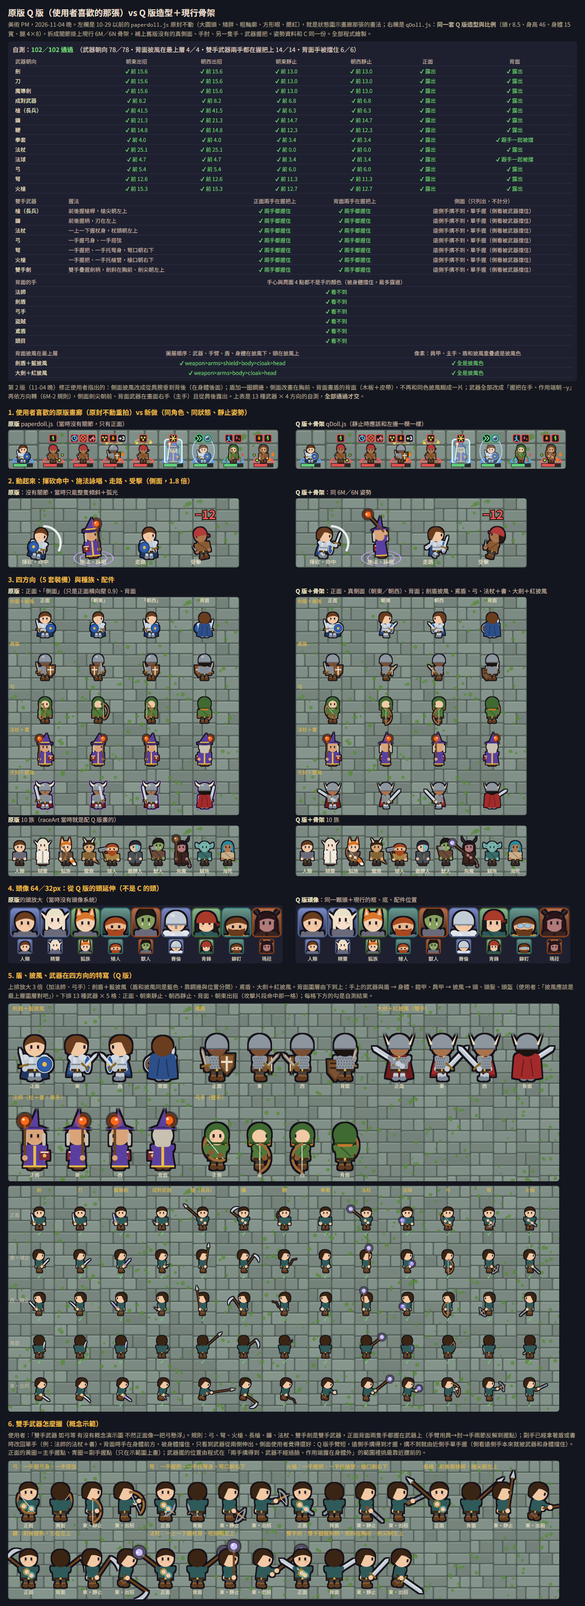
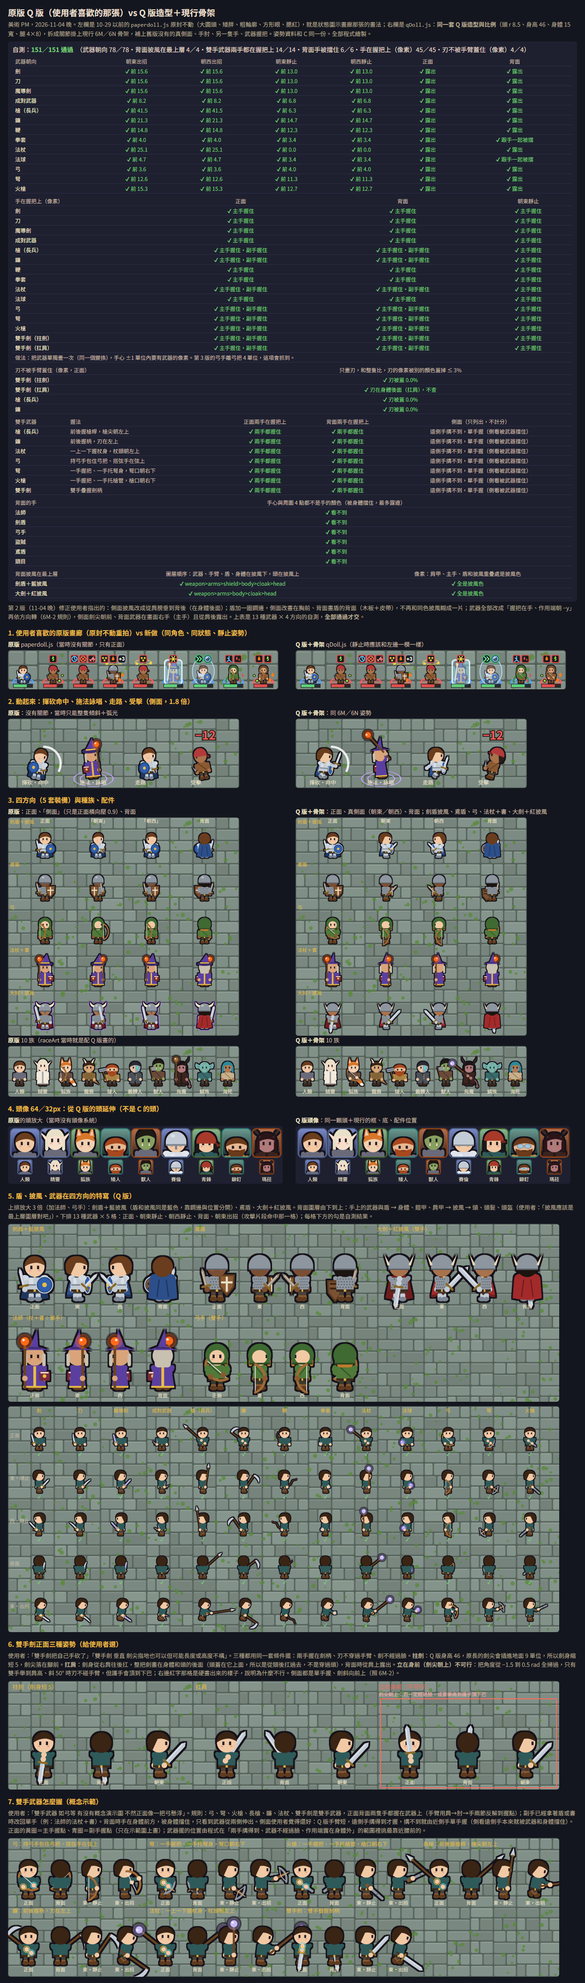
docs(art): weapon idle animations (15 kinds, gif), QK-7 porting spec; Q-doll behind-pose key

diff --git a/docs/art/sample/qDoll.js b/docs/art/sample/qDoll.js
@@ -165,7 +165,7 @@ window.QDoll = (() => {
     fill(ctx, c, () => { ctx.moveTo(-W / 2, -3); ctx.lineTo(-W / 2, -L); ctx.lineTo(0, -L - 3); ctx.lineTo(W / 2, -L); ctx.lineTo(W / 2, -3); ctx.closePath(); });
     if (it?.form === "arcane") {
       const glow = "#9a86ff";
-      ctx.save(); ctx.shadowColor = glow; ctx.shadowBlur = 4; ctx.fillStyle = glow; ctx.fillRect(-0.55, -L + 1, 1.1, L - 5); ctx.restore();
+      ctx.save(); ctx.shadowColor = glow; ctx.shadowBlur = 4 + 8 * pz("glow"); ctx.fillStyle = glow; ctx.fillRect(-0.55, -L + 1, 1.1, L - 5); ctx.restore();
       ctx.fillStyle = "#e8e2ff"; for (const ry of [-6.5, -10, -13.5]) ctx.fillRect(-1.1, ry, 2.2, 0.8);
       fill(ctx, "#b08a4a", () => { for (let i = 0; i < 12; i++) { const a = (i / 12) * TAU, r = i % 2 ? 3.2 : 4.3; ctx.lineTo(Math.cos(a) * r, -3 + Math.sin(a) * r * 0.55); } ctx.closePath(); });
       fill(ctx, glow, () => ctx.arc(0, -3, 1.2, 0, TAU));
@@ -223,8 +223,9 @@ window.QDoll = (() => {
     whip: { len: 18, hold: { side: 0.75, front: -0.25 }, draw: (c, it) => {
       fill(c, "#4a3020", () => c.roundRect(-1.1, -5, 2.2, 6.5, 0.8));
       c.strokeStyle = it?.color ?? "#5e3b1f"; c.lineWidth = 1.4; c.lineCap = "round";
-      c.beginPath(); c.moveTo(0, -5); c.bezierCurveTo(4, -9, -4, -13, 1, -18); c.stroke();
-      c.lineWidth = 0.8; c.beginPath(); c.moveTo(1, -18); c.quadraticCurveTo(3.5, -20, 2.2, -21.5); c.stroke();
+      const w = Math.sin(pz("lash") * TAU) * 2.5; // 待機：鞭梢甩動
+      c.beginPath(); c.moveTo(0, -5); c.bezierCurveTo(4 + w, -9, -4 - w, -13, 1 + w, -18); c.stroke();
+      c.lineWidth = 0.8; c.beginPath(); c.moveTo(1 + w, -18); c.quadraticCurveTo(3.5 + 1.6 * w, -20, 2.2 + 2 * w, -21.5); c.stroke();
     } },
     gauntlet: { len: 4, hold: { side: 1.0, front: 0 }, draw: (c, it) => {
       const [k, d] = wc(it, "steel");
@@ -235,16 +236,18 @@ window.QDoll = (() => {
     staff: { len: 32, hold: { side: 0, front: 0 }, draw: (c, it) => {
       const orb = ({ fire: "#ff6a1a", water: "#4aa8ff", ice: "#8fe3ff", lightning: "#fff36b", poison: "#7ddc3a", wind: "#7fe0c0", earth: "#b0814a", holy: "#ffd75e", shadow: "#9a6ad8" })[it?.element] ?? "#c8bcff"; // 同 paperdoll 的 ELEMENT_TINT
       fill(c, "#6a4420", () => c.rect(-1.1, -30, 2.2, 39)); // 杖身到 +9，下手握在 +6
-      c.save(); c.globalAlpha = 0.35; fill(c, orb, () => c.arc(0, -32, 6.5, 0, TAU)); c.restore();
+      const g = pz("glow"); // 待機的光脈動（idleWeapons.js）：0～1
+      c.save(); c.globalAlpha = 0.35 + 0.35 * g; fill(c, orb, () => c.arc(0, -32, 6.5 + 2 * g, 0, TAU)); c.restore();
       fill(c, orb, () => c.arc(0, -32, 3.6, 0, TAU));
       fill(c, "rgba(255,255,255,0.8)", () => c.arc(-1.2, -33.2, 1.1, 0, TAU));
     } },
     orb: { len: 6, hold: { side: 0.6, front: 0 }, draw: (c, it) => {
       const orb = it?.color ?? "#a898ff";
       // 法球托在掌心：球心 −3.4，球底貼著手
-      c.save(); c.globalAlpha = 0.35; fill(c, orb, () => c.arc(0, -3.4, 6, 0, TAU)); c.restore();
-      fill(c, orb, () => c.arc(0, -3.4, 3.6, 0, TAU));
-      fill(c, "rgba(255,255,255,0.8)", () => c.arc(-1.2, -4.6, 1.1, 0, TAU));
+      const g = pz("glow"), oy = -3.4 + pz("orbY"); // 待機：法球在掌上浮沉（orbY）、光脈動（glow）
+      c.save(); c.globalAlpha = 0.35 + 0.35 * g; fill(c, orb, () => c.arc(0, oy, 6 + 2 * g, 0, TAU)); c.restore();
+      fill(c, orb, () => c.arc(0, oy, 3.6, 0, TAU));
+      fill(c, "rgba(255,255,255,0.8)", () => c.arc(-1.2, oy - 1.2, 1.1, 0, TAU));
     } },
     // 弓：弓把在原點（持弓手包住它），弓臂往 ±x 彎、弓背朝 −y（＝箭的方向），弦在 +y；側面 hold π/2 讓箭朝前；正面 −π/2 弓背朝外
     // 第 3 版前弧心在 (0,9)，弓把其實在 y −4，手離弓身 4 單位（使用者：「弓左邊這隻手沒抓著弓身」）；改成弧心 (0,13)、弓把在原點
@@ -407,12 +410,14 @@ window.QDoll = (() => {
   // ---------- 盾：正面舊版原樣＋一圈鋼邊（和同色披風分得開）／側面（新：近乎側看的窄盾，在胸前）／背面（新：看到盾的背面＝木板＋皮帶） ----------
   const RIM = "#c3ccd6";
   function shieldFront(ctx, it, x) {
+    ctx.save(); ctx.translate(0, -pz("shieldUp")); // 待機：舉盾
     PD.drawWeapon(ctx, it, x, true);
     if (it.kind === "shield_round") { ctx.strokeStyle = RIM; ctx.lineWidth = 0.9; ctx.beginPath(); ctx.arc(x, -13.5, 7.1, 0, TAU); ctx.stroke(); }
+    ctx.restore();
   }
   function shieldSide(ctx, it) {
     const [c, d] = colors(it), tower = it.kind === "shield_kite" && it.form === "tower";
-    ctx.save(); ctx.translate(8.6, -13.5); // 拿在遠側手、舉在胸前：比身體前緣（x 5.4）再往前，近側手臂只蓋到盾的後緣
+    ctx.save(); ctx.translate(8.6, -13.5 - pz("shieldUp")); // 拿在遠側手、舉在胸前：比身體前緣（x 5.4）再往前，近側手臂只蓋到盾的後緣
     if (it.kind === "shield_round") {
       fill(ctx, d, () => ctx.ellipse(0, 0, 2.9, 7.5, 0, 0, TAU));
       fill(ctx, c, () => ctx.ellipse(0.6, 0, 2.1, 6.2, 0, 0, TAU));
@@ -486,8 +491,10 @@ window.QDoll = (() => {
       const a = pz("arm"), eA = Math.min(0, a * 0.35);
       sideW = POSE && typeof POSE.wpn === "number" ? POSE.wpn : holdOf(gear.main_hand, "side");
       let done = false;
+      const h0 = fk(4.5, 0, eA), h = [4.5 + rot(a, [h0[0] - 4.5, h0[1] + 20])[0], -20 + rot(a, [h0[0] - 4.5, h0[1] + 20])[1]];
+      // 姿勢鍵 behind（待機的雙手劍扛肩）：武器畫在身體與頭的後面，近側手臂照常畫在前面
+      if (pz("behind")) { mainWeapon(ctx, gear.main_hand, h, a + eA + sideW, "side"); mark("weapon"); }
       if (two) {
-        const h0 = fk(4.5, 0, eA), h = [4.5 + rot(a, [h0[0] - 4.5, h0[1] + 20])[0], -20 + rot(a, [h0[0] - 4.5, h0[1] + 20])[1]];
         const o = rot(a + eA + sideW, twoOff(two)), t = [h[0] + o[0], h[1] + o[1]], k = ik(3, t, -1);
         if (k.ok) { arm(ctx, unit, 3, k.sA, k.eA, side, rec("off")); if (POSE && POSE.hands) POSE.hands.offTwo = true; done = true; }
       }
@@ -531,7 +538,7 @@ window.QDoll = (() => {
     } else if (S) {
       const a = pz("arm"), rm = rec("main");
       ctx.save(); rotAt(ctx, 4.5, -20, a);
-      arm(ctx, unit, 4.5, 0, Math.min(0, a * 0.35), side, (hand, c) => { mainWeapon(ctx, gear.main_hand, hand, sideW, "side"); if (rm) rm(hand, c); });
+      arm(ctx, unit, 4.5, 0, Math.min(0, a * 0.35), side, (hand, c) => { if (!pz("behind")) mainWeapon(ctx, gear.main_hand, hand, sideW, "side"); if (rm) rm(hand, c); });
       ctx.restore();
     }
     ctx.restore();

diff --git a/docs/art/sample/idleWeapons.js b/docs/art/sample/idleWeapons.js
@@ -1,0 +1,45 @@
+// 武器專屬待機（美術 PM，2026-11-04 晚；使用者：「要有待機動化 就是沒輪到他它會在那邊晃 每個武器不一樣動作」）。
+// 每種武器一個循環 pose(u)（u ＝ 0～1），疊在 6M-4 的呼吸上；同一隊的人用單位 id 的 FNV-1a 雜湊錯開相位（同 idleClips 的 breathPhase），
+// 不用 Math.random、不讀時間；同一個 id、同一個時鐘永遠同一格。「減少動態」開啟時一律回到站好（REST）。
+// 姿勢鍵和 6M／6N 同一份，另加 4 個只影響畫法的鍵：shieldUp（盾往上抬幾單位）、glow（杖頭、法球、符文光 0～1）、orbY（法球上下）、lash（鞭梢 0～1）。
+window.IdleWeapons = (() => {
+  const TAU = Math.PI * 2;
+  const S = (u, k = 1) => Math.sin(u * TAU * k);
+  const C = (u, k = 1) => Math.cos(u * TAU * k);
+  const bump = (u, a, b) => (u < a || u > b ? 0 : Math.sin(((u - a) / (b - a)) * Math.PI)); // a～b 之間 0→1→0
+  const ease = (t) => t * t * (3 - 2 * t);
+  const breath = (u) => ({ bob: -0.5 * (0.5 - 0.5 * C(u)) });
+  // ms：循環長度；zh：說明；pose(u)：側面姿勢（正面、背面只用 bob、glow、orbY、shieldUp、pull）
+  const IDLE = {
+    sword: { ms: 2400, zh: "劍：劍尖輕輕晃、重心微移", pose: (u) => ({ ...breath(u), wpn: 0.75 + 0.08 * S(u), arm: 0.05 * S(u), hipN: 0.05 * S(u), hipF: -0.05 * S(u) }) },
+    sword_shield: { ms: 2400, zh: "劍盾：舉盾微晃", pose: (u) => ({ ...breath(u), shieldUp: 1.6 * (0.5 - 0.5 * C(u)), wpn: 0.75 + 0.05 * S(u), lean: -0.03 * (0.5 - 0.5 * C(u)) }) },
+    saber: { ms: 2400, zh: "刀：刀尖畫小圈", pose: (u) => ({ ...breath(u), wpn: 0.75 + 0.16 * S(u), arm: 0.08 * C(u) }) },
+    arcane_blade: { ms: 2400, zh: "魔導劍：劍槽符文光脈動", pose: (u) => ({ ...breath(u), wpn: 0.75 + 0.05 * S(u), glow: 0.5 - 0.5 * C(u) }) },
+    paired: { ms: 2400, zh: "成對武器：匕首在手上翻一圈", pose: (u) => ({ ...breath(u), wpn: 0.75 + TAU * ease(Math.min(1, Math.max(0, (u - 0.3) / 0.3))), arm: -0.2 * bump(u, 0.25, 0.65) }) },
+    spear: { ms: 2400, zh: "長槍：槍尖往前點兩下", pose: (u) => ({ ...breath(u), wpn: 0.15 + 0.14 * (bump(u, 0.15, 0.3) + bump(u, 0.35, 0.5)), arm: -0.06 * (bump(u, 0.15, 0.3) + bump(u, 0.35, 0.5)) }) },
+    scythe: { ms: 2400, zh: "鐮：刃緩慢左右擺", pose: (u) => ({ ...breath(u), wpn: 0.6 + 0.14 * S(u), lean: 0.04 * S(u) }) },
+    whip: { ms: 1200, zh: "鞭：鞭梢甩動", pose: (u) => ({ ...breath(u), lash: u, arm: 0.06 * S(u) }) },
+    gauntlet: { ms: 1200, zh: "拳套：舉拳原地小跳", pose: (u) => { const h = Math.abs(S(u)); return { bob: -2.2 * h, arm: -0.55, wpn: 1.0, kneeN: 0.35 * (1 - h), kneeF: 0.35 * (1 - h), liftL: 0.8 * h, liftR: 0.8 * h }; } },
+    staff: { ms: 2400, zh: "法杖：杖頭光點脈動", pose: (u) => ({ ...breath(u), glow: 0.5 - 0.5 * C(u), wpn: 0.04 * S(u) }) },
+    orb: { ms: 2400, zh: "法球：法球在掌上浮沉、光脈動", pose: (u) => ({ ...breath(u), orbY: -1.4 * (0.5 - 0.5 * C(u)), glow: 0.5 - 0.5 * C(u) }) },
+    bow: { ms: 2400, zh: "弓：拉一下弦再放", pose: (u) => ({ ...breath(u), pull: 3.2 * bump(u, 0.2, 0.7) }) },
+    crossbow: { ms: 2400, zh: "弩：舉起來瞄一下再放下", pose: (u) => { const k = bump(u, 0.2, 0.75); return { ...breath(u), wpn: 2.2 - 0.6 * k, arm: -0.35 * k }; } },
+    gun: { ms: 2400, zh: "火槍：槍口點一下、重心左右換", pose: (u) => ({ ...breath(u), wpn: 2.3 + 0.12 * bump(u, 0.1, 0.3), hipN: 0.08 * S(u), hipF: -0.08 * S(u), lean: 0.03 * S(u) }) },
+    // 扛肩：劍身往後上斜靠在近側肩上，畫在身體和頭的後面（behind）；重心左右換
+    greatsword: { ms: 2400, zh: "雙手劍：扛肩、重心左右換", pose: (u) => ({ ...breath(u), behind: 1, wpn: -0.42 + 0.04 * S(u), arm: -0.45, hipN: 0.1 * S(u), hipF: -0.1 * S(u), lean: 0.03 * S(u) }) },
+  };
+  /** FNV-1a（同 client idleClips.idHash）。 */
+  function idHash(id) { let h = 2166136261; for (let i = 0; i < id.length; i++) h = Math.imul(h ^ id.charCodeAt(i), 16777619); return h >>> 0; }
+  const phaseOf = (id) => (idHash(`${id}:weaponIdle`) % 1000) / 1000;
+  /** 量化成 8 格（同裝備、同朝向、同一格共用貼圖；光、法球浮沉這類疊加層不量化）。 */
+  const FRAMES = 8;
+  function frame(kind, id, ms, opt = {}) {
+    const I = IDLE[kind] ?? IDLE.sword;
+    if (opt.reduce) return { pose: {}, frame: 0 };
+    const u = (ms / I.ms + phaseOf(id)) % 1;
+    const q = opt.quantize === false ? u : Math.floor(u * FRAMES) / FRAMES;
+    const p = I.pose(q), live = I.pose(u);
+    return { pose: { ...p, glow: live.glow, orbY: live.orbY }, frame: Math.floor(u * FRAMES), u };
+  }
+  return { IDLE, frame, phaseOf, idHash, FRAMES };
+})();

diff --git a/docs/art/sample/idle-weapons.html b/docs/art/sample/idle-weapons.html
@@ -1,0 +1,38 @@
+<!doctype html>
+<html lang="zh-Hant"><head><meta charset="utf-8"><title>武器專屬待機</title>
+<style>
+  body{margin:0;padding:14px 18px;background:#14161f;color:#eadfcc;font-family:"Noto Sans TC","Microsoft JhengHei",sans-serif;width:1280px}
+  h1{font-size:19px;margin:0 0 4px}h2{font-size:15px;color:#e8bb48;margin:18px 0 6px}
+  .note{color:#b8ab96;font-size:13px;margin:0 0 8px;line-height:1.55}
+  canvas{display:block;border-radius:6px;background:#1e2030}
+</style></head>
+<body>
+<h1>武器專屬待機（Q 版，側面朝東）</h1>
+<p class="note">美術 PM，2026-11-04 晚。使用者原話：「要有待機動化 就是沒輪到他它會在那邊晃 每個武器不一樣動作」。沒輪到行動的單位在原地輕微晃，每種武器一個循環（1.2 或 2.4 秒），疊在 6M-4 的呼吸上；相位用單位 id 的 FNV-1a 雜湊錯開，同一隊不會同步；「減少動態」開啟時一律站好。動作量化成 8 格（同裝備、同朝向、同一格共用貼圖）；杖頭光、法球浮沉這類疊加層不量化。全部程式繪製（<code>idleWeapons.js</code>＋<code>qDoll.js</code>）。</p>
+<h2>1. 15 種待機（13 種武器＋劍盾＋雙手劍）</h2>
+<canvas id="grid"></canvas>
+<h2>2. 分格：每種 8 格（一個循環）</h2>
+<canvas id="strip"></canvas>
+<h2>3. 同一隊 5 個劍盾兵：相位依 id 錯開，不同步</h2>
+<canvas id="team"></canvas>
+<script src="current.js"></script><script src="raceArt.js"></script><script src="paperdoll.js"></script><script src="fx.js"></script><script src="realms.js"></script>
+<script src="qDoll.js"></script><script src="storyDoll.js"></script><script src="anim.js"></script><script src="idleWeapons.js"></script>
+<script>
+const T=52,Q=QDoll,IW=IdleWeapons,FONT="'Noto Sans TC','Microsoft JhengHei',sans-serif";
+const qs=new URLSearchParams(location.search),FIXED=qs.has("t")?+qs.get("t"):null,REDUCE=qs.has("reduce");
+function cv(id,w,h){const c=document.getElementById(id);c.width=w*2;c.height=h*2;c.style.width=w+"px";c.style.height=h+"px";const x=c.getContext("2d");x.scale(2,2);return x;}
+function floor(x,W,H){for(let gy=0;gy<H;gy++)for(let gx=0;gx<W;gx++)Realms.REALMS[1].floor(x,gx*T,gy*T,gx,gy);}
+const KINDS=["sword","sword_shield","saber","arcane_blade","paired","spear","scythe","whip","gauntlet","staff","orb","bow","crossbow","gun","greatsword"];
+const ZH={sword:"劍",sword_shield:"劍盾",saber:"刀",arcane_blade:"魔導劍",paired:"成對武器",spear:"長槍",scythe:"鐮",whip:"鞭",gauntlet:"拳套",staff:"法杖",orb:"法球",bow:"弓",crossbow:"弩",gun:"火槍",greatsword:"雙手劍"};
+function unitOf(k){if(k==="sword_shield"){const u=Anim.unit("sword");return {look:u.look,gear:{...u.gear,off_hand:PaperDoll.ITEMS.round_shield}};}return Anim.unit(k);}
+function put(x,k,id,cx,fy,K,ms,opt={}){const f=IW.frame(k,id,ms,{reduce:REDUCE,...opt});Q.setPose({...Anim.REST,...f.pose,wpn:f.pose.wpn});Q.stamp(x,unitOf(k),"side",cx,fy,K,false);Q.setPose(null);return f;}
+const G=cv("grid",1240,3*170),S=cv("strip",1240,KINDS.length*58+10),M=cv("team",1240,150);
+function drawGrid(ms){G.clearRect(0,0,1240,520);floor(G,24,10);KINDS.forEach((k,i)=>{const col=i%5,row=Math.floor(i/5),cx=90+col*240,fy=row*170+140;put(G,k,`demo:${k}`,cx,fy,2.4,ms);
+  G.fillStyle="#e8bb48";G.font=`13px ${FONT}`;G.textAlign="left";G.fillText(ZH[k],cx+46,fy-96);G.fillStyle="#c8bca8";G.font=`11px ${FONT}`;const t=IW.IDLE[k].zh.split("：")[1];G.fillText(t,cx+46,fy-78);G.fillText(`${IW.IDLE[k].ms/1000} 秒一循環`,cx+46,fy-62);});
+  if(REDUCE){G.fillStyle="#ff6a5a";G.font=`14px ${FONT}`;G.fillText("減少動態：全部站好",1000,20);}}
+function drawStrip(){floor(S,24,KINDS.length+3);KINDS.forEach((k,i)=>{const y=i*58+52;S.fillStyle="#e8bb48";S.font=`12px ${FONT}`;S.textAlign="left";S.fillText(ZH[k],8,y-22);
+  for(let j=0;j<8;j++){const ms=(j/8)*IW.IDLE[k].ms,f=IW.IDLE[k].pose(j/8);Q.setPose({...Anim.REST,...f});Q.stamp(S,unitOf(k),"side",110+j*140,y,1.15,false);Q.setPose(null);S.fillStyle="#8a8070";S.font=`10px ${FONT}`;S.fillText(`${j+1}`,110+j*140+26,y-4);}});}
+function drawTeam(ms){M.clearRect(0,0,1240,150);floor(M,24,3);for(let i=0;i<5;i++){const id=`battle-7:hero_${i+1}`,f=put(M,"sword_shield",id,120+i*220,128,2,ms);M.fillStyle="#c8bca8";M.font=`11px ${FONT}`;M.textAlign="left";M.fillText(`${id}　相位 ${IW.phaseOf(id).toFixed(2)}`,120+i*220-40,16);}}
+drawStrip();
+if(FIXED!==null){drawGrid(FIXED);drawTeam(FIXED);}else{const t0=performance.now();const loop=(now)=>{drawGrid(now-t0);drawTeam(now-t0);requestAnimationFrame(loop);};requestAnimationFrame(loop);}
+</script></body></html>

diff --git a/docs/art/武器待機移植需求.md b/docs/art/武器待機移植需求.md
@@ -1,0 +1,81 @@
+# 武器專屬待機：移植需求（QK-7，等使用者確認 Q 版方向後交開發 PM）
+
+美術 PM，2026-11-04 晚。使用者原話（專案 PM 轉達）：「要有待機動化 就是沒輪到他它會在那邊晃 每個武器不一樣動作」。
+
+- 樣張：`idle-weapons.gif`（15 種待機，2.4 秒一循環）、`idle-team.gif`（同一隊 5 人不同步）、`idle-weapons.png`（分格）。
+- 樣張程式：`sample/idle-weapons.html`（`?t=毫秒` 固定時間、`?reduce=1` 減少動態），定義在 `sample/idleWeapons.js`，畫法用 `sample/qDoll.js`。
+- 全部程式繪製，只在前端畫面，不碰引擎與重播。
+
+## 1. 規則
+
+- **誰會晃**：戰鬥中沒輪到行動、站著的單位。
+  - 照 6M-4 `idles()` 的條件：倒地、冰凍、正在播別的動畫（`hold`）的人不晃。
+  - 輪到行動的人照現行（選單開著時站好）。
+- **疊加**：疊在 6M-4 的呼吸上。6M-4 的小動作（張望、伸懶腰）照舊，播小動作時武器待機暫停。
+- **相位**：用 `idHash(`${unitId}:weaponIdle`) % 1000 / 1000`，FNV-1a，同 `idleClips.idHash`。
+  - 同一個 id、同一個時鐘，永遠是同一格。
+  - 同一隊會錯開，見 `idle-team.gif`。
+  - 不用 `Math.random`，不讀時間，時鐘照 6M-4 用 ticker 累加的毫秒。
+- **減少動態**：開啟時一律站好，光也不脈動。樣張 `?reduce=1` 驗證過，畫面完全不動。
+- **量化**：
+  - 動作量化成 8 格。同裝備、同朝向、同一格共用貼圖，每人最多 8 × 朝向張。
+  - 杖頭光、法球浮沉、符文光是疊加層，不量化，也不換貼圖。
+
+## 2. 15 種待機
+
+`idleWeapons.js` 的 `IDLE` 表，照搬。
+
+| 武器 | 動作 | 循環 | 用到的姿勢鍵 |
+|---|---|---|---|
+| 劍 | 劍尖輕晃、重心微移 | 2.4 秒 | wpn、arm、hipN/F |
+| 劍盾（副手是盾） | 舉盾微晃 | 2.4 秒 | shieldUp、wpn、lean |
+| 刀 | 刀尖畫小圈 | 2.4 秒 | wpn、arm |
+| 魔導劍 | 劍槽符文光脈動 | 2.4 秒 | glow、wpn |
+| 成對武器 | 匕首在手上翻一圈 | 2.4 秒 | wpn（加 2π）、arm |
+| 長槍 | 槍尖往前點兩下 | 2.4 秒 | wpn、arm |
+| 鐮 | 刃緩慢左右擺 | 2.4 秒 | wpn、lean |
+| 鞭 | 鞭梢甩動 | 1.2 秒 | lash、arm |
+| 拳套 | 舉拳原地小跳 | 1.2 秒 | bob、arm、kneeN/F、liftL/R |
+| 法杖 | 杖頭光點脈動 | 2.4 秒 | glow、wpn |
+| 法球 | 法球在掌上浮沉、光脈動 | 2.4 秒 | orbY、glow |
+| 弓 | 拉一下弦再放 | 2.4 秒 | pull |
+| 弩 | 舉起來瞄一下再放下 | 2.4 秒 | wpn、arm |
+| 火槍 | 槍口點一下、重心左右換 | 2.4 秒 | wpn、hipN/F、lean |
+| 雙手劍 | 扛肩、重心左右換 | 2.4 秒 | behind、wpn、arm、hipN/F |
+
+**新的姿勢鍵**：只影響畫法，`InkPose` 加欄位，6M／6N 的片段不受影響。
+
+| 鍵 | 作用 |
+|---|---|
+| `shieldUp` | 盾往上抬幾單位 |
+| `glow` | 光的強度 0～1：杖頭、法球的光暈加大加亮，魔導劍符文的 shadowBlur 加大 |
+| `orbY` | 法球上下位移 |
+| `lash` | 鞭梢的波動相位 0～1 |
+| `behind` | 側面時武器畫在身體與頭的後面（雙手劍扛肩）；近側手臂照常畫在前面 |
+
+- **哪個方向播**：側面播完整動作。正面、背面只套 `bob`、`glow`、`orbY`、`shieldUp`、`pull`，手臂與武器角度不變，避免和正面的雙手握法打架。
+- **雙手武器的副手**：照 Q 版雙手規則跟著主手走（`qDoll.js` 的 `TWO`）。
+
+## 3. 驗收
+
+- **gif**：15 種在戰場上同時待機，與樣張 `idle-weapons.gif` 並排。要錄靜音的 gif，見品質底線。
+- **單元測試**：
+  - 15 種都有定義。
+  - 同一個 id、同一個時鐘得到同一格。
+  - 兩個不同 id 的相位不同。
+  - 減少動態時姿勢等於站好。
+  - 8 格量化後貼圖鍵最多 8 個。
+  - 每一格都照跑 Q 版的武器自測：手在握把上（像素）、作用端在畫布內。
+- **效能**：12 人同時待機，FPS 和現在一樣（6R-F 的量法）；貼圖數上限照 6M-4 的快取規則。
+- **減少動態**：開啟後站好，截圖和關閉前的站姿逐像素相同。
+
+## 4. 工作量與排段
+
+| 項目 | 段 |
+|---|---|
+| `idleWeapons.ts`（純函式，15 種定義、相位、量化）＋ `InkPose` 新鍵與畫法掛點（盾、光、法球、鞭、behind） | 0.25 |
+| `IdleMotion` 接上：選武器種類、8 格貼圖快取、疊加層光脈動、減少動態、測試、gif | 0.25 |
+| **合計** | **約 0.5 段** |
+
+- 排在 **QK-1 之後**，動作要用 Q 版武器握法與 `TWO` 雙手規則。建議叫 **QK-7**，可以和 QK-3、QK-4 平行。
+- Q 版系列合計：QK-1～5 約 4.75 段，加外觀變化 QK-6 約 1.75 段（若採用），加 QK-7 約 0.5 段，共約 **7 段**。

diff --git a/docs/art/Q版回歸評估.md b/docs/art/Q版回歸評估.md
@@ -44,6 +44,17 @@
   - 自測 102／102：武器朝向 78、背面披風 4、雙手武器兩手都在握把上 14（7 種 × 正背面）、背面手被擋住 6（6 種職業，像素檢查）。
   - 第 6 組「雙手武器怎麼握（概念示範）」：7 種 × 正面、背面、東靜止、東出招，標出主手與副手握點。
   - 移植影響：`inkPose`／`inkDoll` 要加手臂兩節反解（約 40 行）和 `TWO` 握點表。QK-1 從 1.5 段改成約 1.75 段，合計約 4.75 段。
+- **第 4 版（11-04 晚，使用者：「雙手劍把自己手砍了」「弓左邊這隻手沒抓著弓身側邊也沒太準抓著」「雙手劍 垂直 劍尖指地也可以但可能長度或高度不構」）**：
+  - **弓**：弧心原本在 (0,9)，弓把其實在 y −4，手離弓身 4 單位。改成弧心 (0,13)、弓把在原點，持弓手包住弓把，側面也一樣。
+  - **雙手劍正面**：求解器加「刃不穿過手臂」（離兩隻手臂的線段 ≥ 2.6）和「兩手在身體寬度內」，做出三種給使用者選：
+    - **拄劍**：劍尖點在腳前。Q 版身高 46，原長劍尖會插進地面約 9 單位，所以劍身縮短 5。
+    - **扛肩**：劍身從右肩頸後往後扛，畫在身體和頭後面，主手握柄尾、副手握護手下方。
+    - **立在身前（劍尖朝上）不可行**：全掃 −1.5～0.5 rad，只有雙手舉到肩高、斜 50° 時刃不碰手臂，但護手會頂到下巴。樣張標紅並說明。
+  - **新自測**：
+    - 「手在握把上（像素）」：武器單獨畫一次，手心 ±1 單位內要有武器像素，45 項。舊的弓會失敗。
+    - 「刃不被手臂蓋住（像素）」：只畫刃和整隻比，被蓋 ≤ 3%。
+  - 自測共 151／151。
+  - **武器專屬待機**：另見 `武器待機移植需求.md`（QK-7，約 0.5 段）。
 
 ## 3. 重估：要做多少
 
@@ -90,10 +101,12 @@
 | QK-3 | C 時期新增的裝備 15 件、形態 10 種 | 1 |
 | QK-4 | 異形 17 種、頭目 2 種 | 0.75 |
 | QK-5 | 跳躍／蹲低／滑倒片段微調、快照重產、事件插圖重拍、實機 10 張、動畫 gif | 0.5 |
+| QK-6（若採用） | 外觀變化：臉型、眼睛、髮型、鬍子、體型、男女快速組合、NPC 依 id 變化（`外觀變化方案.md`） | 1.75 |
+| QK-7 | 武器專屬待機 15 種（`武器待機移植需求.md`），QK-1 之後，可和 QK-3、QK-4 平行 | 0.5 |
 
 QK-1 做完先給使用者看畫廊與一段走路 gif，確認「是這個味道」再往下。
 
-**QK-1 起每段的必要驗收**：6M-2 的武器朝向單元測試 `client/src/render/inkWeaponFrame.test.ts` 已在 client（出招時作用端在手前方、正背面握在柄上、作用端落在輪廓上、所有 kind 都有統一座標），換成 Q 版造型後**照跑不改條件**；另照 `sample/qDoll.js` 的 `selfTest()` 補：靜止時作用端不朝後、作用端在貼圖畫布內（不被切掉）、背面披風在最上層、雙手武器正背面兩手都在握把上、背面手被身體擋住。全部通過才交；dev 畫廊要有四方向 × 披風＋盾的特寫。
+**QK-1 起每段的必要驗收**：6M-2 的武器朝向單元測試 `client/src/render/inkWeaponFrame.test.ts` 已在 client（出招時作用端在手前方、正背面握在柄上、作用端落在輪廓上、所有 kind 都有統一座標），換成 Q 版造型後**照跑不改條件**；另照 `sample/qDoll.js` 的 `selfTest()` 補：靜止時作用端不朝後、作用端在貼圖畫布內（不被切掉）、背面披風在最上層、雙手武器正背面兩手都在握把上、背面手被身體擋住、手在握把上（像素）、刃不被手臂蓋住（像素）。全部通過才交；dev 畫廊要有四方向 × 披風＋盾的特寫。
 
 ## 5. 要使用者確認
 

diff --git a/docs/美術PM交接.md b/docs/美術PM交接.md
@@ -140,6 +140,8 @@
 | 項目 | 何時 | 說明 |
 |---|---|---|
 | Q 版方向確認（第 3 版：雙手武器握法、背面披風與手） | 等使用者看 `style-compare-3.png` | 確認後寫 QK-1～5 正式移植需求給開發 PM（`Q版回歸評估.md`，約 4.75 段） |
+| 雙手劍正面姿勢（拄劍／扛肩；立在身前不可行） | 等使用者選 | `style-compare-3.png` 第 6 組；預設拄劍 |
+| 武器專屬待機（QK-7） | 等 Q 版方向確認 | `武器待機移植需求.md`、`idle-weapons.gif`、`idle-team.gif`，約 0.5 段 |
 | 外觀變化（臉型、眼睛、髮型、鬍子、體型、男女快速組合） | 等使用者決定 | `外觀變化方案.md`、`appearance-vary.png`；已通知玩法 PM 看資料欄位與建角步驟；建議排 QK-6（約 1.75 段） |
 | ~~C 畫風驗收~~ | 10-29 全部完成 | C-1a、C-1b、C-2a、C-2b、3J-5、C-3 都通過（各段 `*檢查.md`、圖在 `port/`）。形態、野獸召喚物維持側面鏡像，不另畫正背面 |
 | ~~武器小圖示~~ | 10-29 完成 | 3T-4／4b／4c 都過；最後的指虎、矛頭、霰彈槍托微調見 `3T-4c檢查.md`，不另驗收。元素色 `#ff6a1a`／`#fff36b`（`palette.ts`） |
